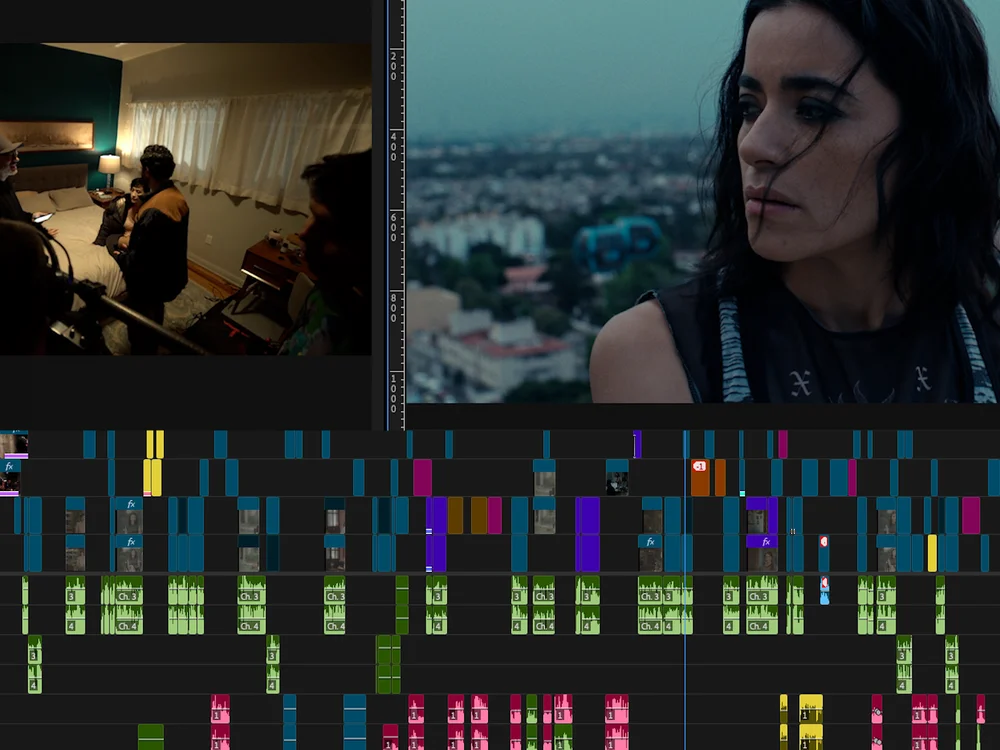
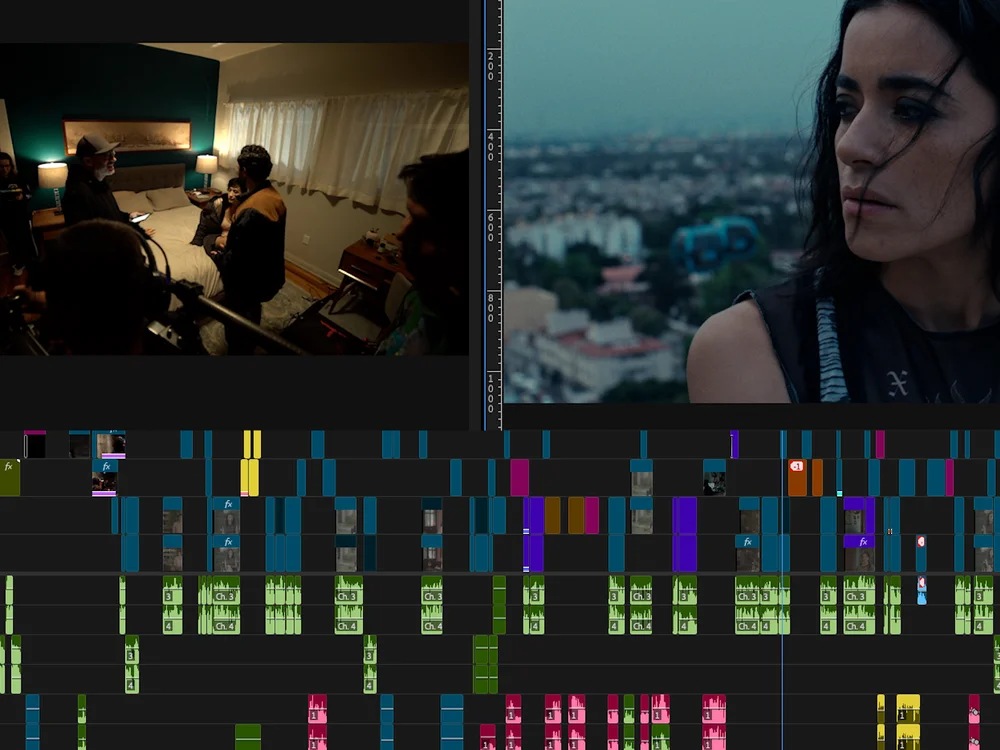
Post-Production image: smiling green frame (Mary Cruz / Alejandra)

diff --git a/services.html b/services.html
@@ -26,7 +26,7 @@
   <meta property="og:image:alt" content="Coco Media logo">
   <meta name="twitter:card" content="summary_large_image">
   <meta name="theme-color" content="#000000">
-  <link rel="stylesheet" href="css/style.css?v=11102346">
+  <link rel="stylesheet" href="css/style.css?v=11102348">
   <script>document.documentElement.classList.add('js');</script>
 </head>
 <body>
@@ -83,7 +83,7 @@
         <article class="svc svc--pink">
           <!-- Oct 28: video removed per Sofi, still image only. Still swapped to the full-res timeline screenshot (Sofi). Oct 27: Mujeres Asesinas S4 BTS edit (from Mary Cruz). Still = resting state; the timeline sweep (5s, silent, B&W)
                fades in once when the row scrolls into view and again on hover. Skipped for reduced motion. -->
-          <figure class="svc-media"><img src="assets/about/svc-post-edit-1000.webp" srcset="assets/about/svc-post-edit-1000.webp 1000w, assets/about/svc-post-edit.webp 1440w" sizes="(max-width: 860px) 100vw, 600px" width="1000" height="750" alt="An edit in progress: behind-the-scenes footage, the finished frame, and the multi-track timeline" loading="lazy"></figure>
+          <figure class="svc-media"><img src="assets/about/svc-post-edit-1000.webp?v=1110" srcset="assets/about/svc-post-edit-1000.webp?v=1110 1000w, assets/about/svc-post-edit.webp?v=1110 1440w" sizes="(max-width: 860px) 100vw, 600px" width="1000" height="750" alt="An edit in progress: behind-the-scenes footage, the finished frame, and the multi-track timeline" loading="lazy"></figure>
           <div class="svc-copy">
             <span class="ring-frame ring-frame--pink svc-icon"><img src="assets/icons/icon-video-editing-bold.png" alt=""></span>
             <h2>Post-Production</h2>
@@ -220,6 +220,6 @@
     </div>
   </footer>
 
-  <script src="js/main.js?v=11102346"></script>
+  <script src="js/main.js?v=11102348"></script>
 </body>
 </html>

diff --git a/es/servicios.html b/es/servicios.html
@@ -27,7 +27,7 @@
 <meta property="og:image:alt" content="Logo de Coco Media">
 <meta name="twitter:card" content="summary_large_image">
 <meta name="theme-color" content="#000000">
-<link rel="stylesheet" href="../css/style.css?v=11102346">
+<link rel="stylesheet" href="../css/style.css?v=11102348">
 <script>document.documentElement.classList.add('js');</script>
 </head>
 <body>
@@ -81,7 +81,7 @@
 <article class="svc svc--pink">
 <!-- Oct 28: video removed per Sofi, still image only. Still swapped to the full-res timeline screenshot (Sofi). Oct 27: Mujeres Asesinas S4 BTS edit (from Mary Cruz). Still = resting state; the timeline sweep (5s, silent, B&W)
                fades in once when the row scrolls into view and again on hover. Skipped for reduced motion. -->
-<figure class="svc-media"><img src="../assets/about/svc-post-edit-1000.webp" srcset="../assets/about/svc-post-edit-1000.webp 1000w, ../assets/about/svc-post-edit.webp 1440w" sizes="(max-width: 860px) 100vw, 600px" width="1000" height="750" alt="Una edición en curso: material detrás de cámaras, el cuadro terminado y la línea de tiempo multipista" loading="lazy"></figure>
+<figure class="svc-media"><img src="../assets/about/svc-post-edit-1000.webp?v=1110" srcset="../assets/about/svc-post-edit-1000.webp?v=1110 1000w, ../assets/about/svc-post-edit.webp?v=1110 1440w" sizes="(max-width: 860px) 100vw, 600px" width="1000" height="750" alt="Una edición en curso: material detrás de cámaras, el cuadro terminado y la línea de tiempo multipista" loading="lazy"></figure>
 <div class="svc-copy">
 <span class="ring-frame ring-frame--pink svc-icon"><img src="../assets/icons/icon-video-editing-bold.png" alt=""></span>
 <h2>Posproducción</h2>
@@ -211,6 +211,6 @@
 </div>
 </div>
 </footer>
-<script src="../js/main.js?v=11102346"></script>
+<script src="../js/main.js?v=11102348"></script>
 </body>
 </html>

diff --git a/case-study-mujeres-asesinas-s2.html b/case-study-mujeres-asesinas-s2.html
@@ -23,8 +23,8 @@
   <meta property="og:image:alt" content="Coco Media logo">
   <meta name="twitter:card" content="summary_large_image">
   <meta name="theme-color" content="#000000">
-  <link rel="stylesheet" href="css/style.css?v=11102346">
-  <link rel="stylesheet" href="css/case-study.css?v=11102346">
+  <link rel="stylesheet" href="css/style.css?v=11102348">
+  <link rel="stylesheet" href="css/case-study.css?v=11102348">
   <script>document.documentElement.classList.add('js');</script>
 </head>
 <body>
@@ -205,7 +205,7 @@
     </div>
   </footer>
 
-  <script src="js/main.js?v=11102346"></script>
-  <script src="js/case-study.js?v=11102346"></script>
+  <script src="js/main.js?v=11102348"></script>
+  <script src="js/case-study.js?v=11102348"></script>
 </body>
 </html>

diff --git a/es/proyectos.html b/es/proyectos.html
@@ -30,7 +30,7 @@
 <meta property="og:image:alt" content="Logo de Coco Media">
 <meta name="twitter:card" content="summary_large_image">
 <meta name="theme-color" content="#000000">
-<link rel="stylesheet" href="../css/style.css?v=11102346">
+<link rel="stylesheet" href="../css/style.css?v=11102348">
 <style>
   /* ==========================================================================
      Projects app — scoped under .projects-app so it can't leak into or
@@ -1339,7 +1339,7 @@ checkDeepLink();
 </div>
 </div>
 </footer>
-<script src="../js/main.js?v=11102346"></script>
+<script src="../js/main.js?v=11102348"></script>
 <script>
 // Nov 5: phone layout toggle for the projects grid (remembers the choice on this device)
 (() => {

diff --git a/projects.html b/projects.html
@@ -29,7 +29,7 @@
   <meta property="og:image:alt" content="Coco Media logo">
   <meta name="twitter:card" content="summary_large_image">
   <meta name="theme-color" content="#000000">
-  <link rel="stylesheet" href="css/style.css?v=11102346">
+  <link rel="stylesheet" href="css/style.css?v=11102348">
   <style>
   /* ==========================================================================
      Projects app — scoped under .projects-app so it can't leak into or
@@ -1354,7 +1354,7 @@ checkDeepLink();
     </div>
   </footer>
 
-  <script src="js/main.js?v=11102346"></script>
+  <script src="js/main.js?v=11102348"></script>
 
 <script>
 // Nov 5: phone layout toggle for the projects grid (remembers the choice on this device)

diff --git a/404.html b/404.html
@@ -21,7 +21,7 @@
   <meta property="og:image:alt" content="Coco Media logo">
   <meta name="twitter:card" content="summary_large_image">
   <meta name="theme-color" content="#000000">
-  <link rel="stylesheet" href="css/style.css?v=11102346">
+  <link rel="stylesheet" href="css/style.css?v=11102348">
   <script>document.documentElement.classList.add('js');</script>
 </head>
 <body>
@@ -123,6 +123,6 @@
       </div>
     </div>
   </footer>
-  <script src="js/main.js?v=11102346"></script>
+  <script src="js/main.js?v=11102348"></script>
 </body>
 </html>

diff --git a/accessibility.html b/accessibility.html
@@ -22,7 +22,7 @@
   <meta property="og:image:alt" content="Coco Media logo">
   <meta name="twitter:card" content="summary_large_image">
   <meta name="theme-color" content="#000000">
-  <link rel="stylesheet" href="css/style.css?v=11102346">
+  <link rel="stylesheet" href="css/style.css?v=11102348">
   <script>document.documentElement.classList.add('js');</script>
 </head>
 <body>
@@ -137,6 +137,6 @@
       </div>
     </div>
   </footer>
-  <script src="js/main.js?v=11102346"></script>
+  <script src="js/main.js?v=11102348"></script>
 </body>
 </html>

diff --git a/careers.html b/careers.html
@@ -22,7 +22,7 @@
   <meta property="og:image:alt" content="Coco Media logo">
   <meta name="twitter:card" content="summary_large_image">
   <meta name="theme-color" content="#000000">
-  <link rel="stylesheet" href="css/style.css?v=11102346">
+  <link rel="stylesheet" href="css/style.css?v=11102348">
   <script>document.documentElement.classList.add('js');</script>
 </head>
 <body>
@@ -137,6 +137,6 @@
       </div>
     </div>
   </footer>
-  <script src="js/main.js?v=11102346"></script>
+  <script src="js/main.js?v=11102348"></script>
 </body>
 </html>

diff --git a/privacy.html b/privacy.html
@@ -22,7 +22,7 @@
   <meta property="og:image:alt" content="Coco Media logo">
   <meta name="twitter:card" content="summary_large_image">
   <meta name="theme-color" content="#000000">
-  <link rel="stylesheet" href="css/style.css?v=11102346">
+  <link rel="stylesheet" href="css/style.css?v=11102348">
   <script>document.documentElement.classList.add('js');</script>
 </head>
 <body>
@@ -138,6 +138,6 @@
       </div>
     </div>
   </footer>
-  <script src="js/main.js?v=11102346"></script>
+  <script src="js/main.js?v=11102348"></script>
 </body>
 </html>

diff --git a/terms.html b/terms.html
@@ -22,7 +22,7 @@
   <meta property="og:image:alt" content="Coco Media logo">
   <meta name="twitter:card" content="summary_large_image">
   <meta name="theme-color" content="#000000">
-  <link rel="stylesheet" href="css/style.css?v=11102346">
+  <link rel="stylesheet" href="css/style.css?v=11102348">
   <script>document.documentElement.classList.add('js');</script>
 </head>
 <body>
@@ -134,6 +134,6 @@
       </div>
     </div>
   </footer>
-  <script src="js/main.js?v=11102346"></script>
+  <script src="js/main.js?v=11102348"></script>
 </body>
 </html>

diff --git a/about.html b/about.html
@@ -26,7 +26,7 @@
   <meta property="og:image:alt" content="Coco Media logo">
   <meta name="twitter:card" content="summary_large_image">
   <meta name="theme-color" content="#000000">
-  <link rel="stylesheet" href="css/style.css?v=11102346">
+  <link rel="stylesheet" href="css/style.css?v=11102348">
   <script>document.documentElement.classList.add('js');</script>
 </head>
 <body>
@@ -359,6 +359,6 @@
     </div>
   </footer>
 
-  <script src="js/main.js?v=11102346"></script>
+  <script src="js/main.js?v=11102348"></script>
 </body>
 </html>

diff --git a/es/nosotros.html b/es/nosotros.html
@@ -27,7 +27,7 @@
 <meta property="og:image:alt" content="Logo de Coco Media">
 <meta name="twitter:card" content="summary_large_image">
 <meta name="theme-color" content="#000000">
-<link rel="stylesheet" href="../css/style.css?v=11102346">
+<link rel="stylesheet" href="../css/style.css?v=11102348">
 <script>document.documentElement.classList.add('js');</script>
 </head>
 <body>
@@ -347,6 +347,6 @@
 </div>
 </div>
 </footer>
-<script src="../js/main.js?v=11102346"></script>
+<script src="../js/main.js?v=11102348"></script>
 </body>
 </html>
